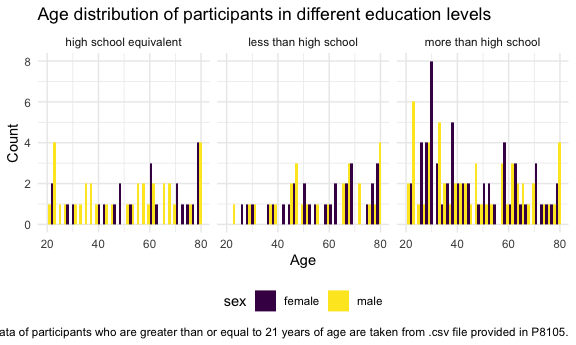
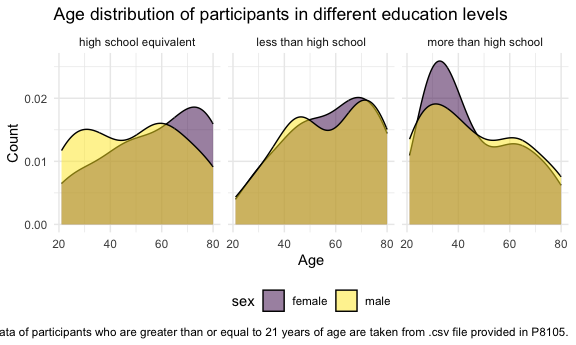
age distribution plot in problem 2 was modified for better comparison of density

diff --git a/p8105_hw3_sy3269.md b/p8105_hw3_sy3269.md
@@ -264,16 +264,15 @@ final data set `nhanes_data_df.`
 
 ``` r
 nhanes_data_df |>
-  group_by(education, sex) |>
-  janitor::tabyl(education, sex) |>
+  group_by(sex, education) |>
+  janitor::tabyl(sex, education) |>
   knitr::kable()
 ```
 
-| education              | female | male |
-|:-----------------------|-------:|-----:|
-| high school equivalent |     23 |   35 |
-| less than high school  |     28 |   27 |
-| more than high school  |     59 |   56 |
+| sex    | high school equivalent | less than high school | more than high school |
+|:-------|-----------------------:|----------------------:|----------------------:|
+| female |                     23 |                    28 |                    59 |
+| male   |                     35 |                    27 |                    56 |
 
 A reader-friendly table for the number of men and women in each
 education category was made. There were more participants in ‘more than
@@ -294,7 +293,7 @@ nhanes_data_df |>
   group_by(seqn, sex, age, education) |>
   summarize(total_activity = sum(mims, na.rm = TRUE)) |>
   ggplot(aes(x = age, fill = sex)) +
-  geom_histogram(position = "dodge") + 
+  geom_density(alpha = .5) + 
   facet_grid(. ~ education) +
   labs(
     title = "Age distribution of participants in different education levels",
@@ -306,7 +305,6 @@ nhanes_data_df |>
 
     ## `summarise()` has grouped output by 'seqn', 'sex', 'age'. You can override
     ## using the `.groups` argument.
-    ## `stat_bin()` using `bins = 30`. Pick better value with `binwidth`.
 
 <img src="p8105_hw3_sy3269_files/figure-gfm/age_distribution-1.png" width="90%" />
 
@@ -561,11 +559,9 @@ significantly greater in the weekends for 2024 data.
 ``` r
 bike_data |>
   filter(year == 2024) |>
-  group_by(rideable_type, duration, month, member_casual) |>
-  summarize() |>
   ggplot(aes(x = rideable_type, y = duration, fill = member_casual)) + 
   geom_violin() +
-  facet_wrap(~ month) +
+  facet_grid(month ~ member_casual) +
   labs(
     x = "Bike Type", 
     y = "Ride Duration",
@@ -573,9 +569,6 @@ bike_data |>
     title = "Duration of Citi Bike rides in 2024",
     caption = "2024 Citibike data provided by P8105 was used.")
 ```
-
-    ## `summarise()` has grouped output by 'rideable_type', 'duration', 'month'. You
-    ## can override using the `.groups` argument.
 
 <img src="p8105_hw3_sy3269_files/figure-gfm/electric_bike_plot-1.png" width="90%" />
 
